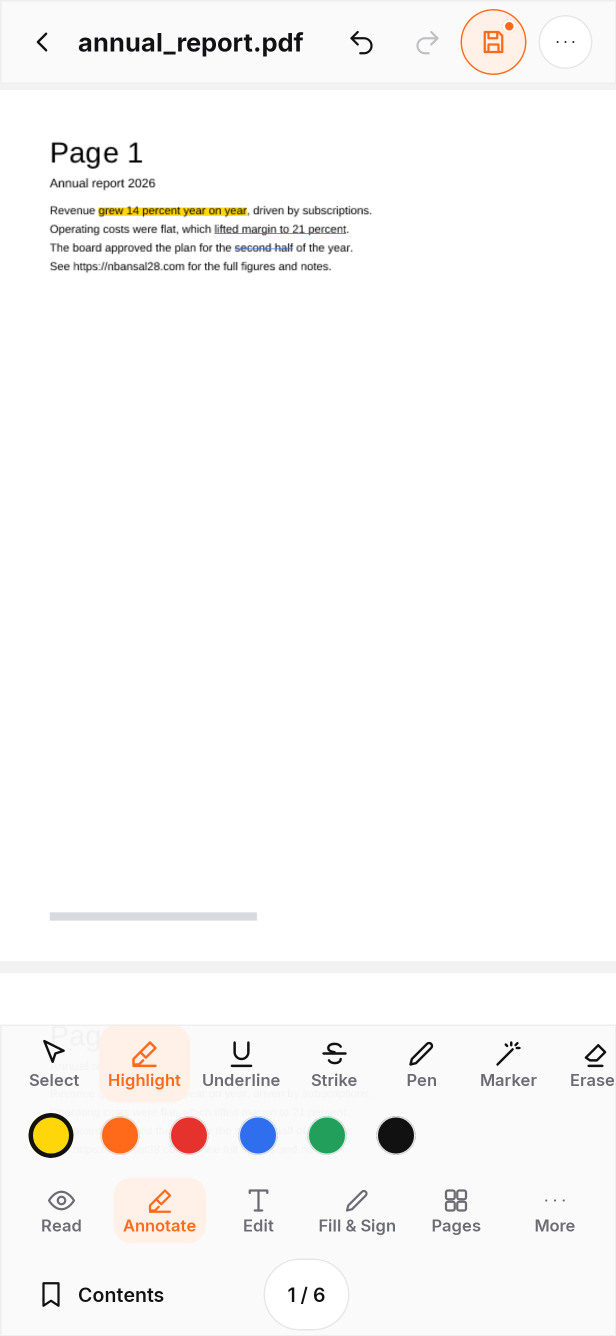
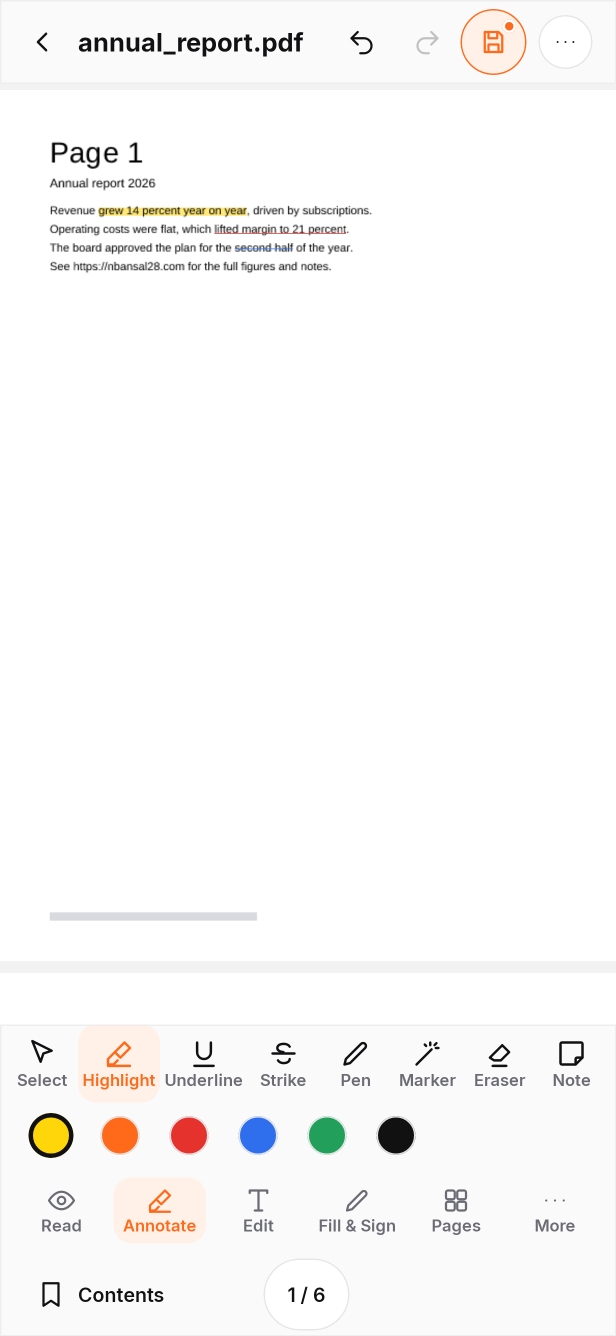
Annotate: highlight opacity, screenshots (light+dark), roadmap progress
Claude-Session: https://claude.ai/code/session_01QtjDEfUSeiytvFedJK5fax

diff --git a/app/src/main/java/com/namanbansal/forge/tools/pdf/AnnotateController.kt b/app/src/main/java/com/namanbansal/forge/tools/pdf/AnnotateController.kt
@@ -136,7 +136,7 @@ class AnnotateController(
                 text = null
                 textJob?.cancel()
                 textJob = scope.launch { text = textOf(hit.page); last?.let { updateQuads(it.x, it.y) } }
-                live.type = textType(t); live.color = colorOf(t); live.opacity = 1f; live.quads = emptyList()
+                live.type = textType(t); live.color = colorOf(t); live.opacity = textOpacity(t); live.quads = emptyList()
             }
             t == AnnotTool.ERASER -> { erased = LinkedHashSet(); live.erasing = emptySet() }
         }
@@ -147,6 +147,8 @@ class AnnotateController(
         val base = AnnotPalette.thicknesses[(_thickness.value[t] ?: 1).coerceIn(0, 2)]
         return if (t == AnnotTool.HIGHLIGHTER) base * AnnotPalette.HIGHLIGHTER_FACTOR else base
     }
+
+    private fun textOpacity(t: AnnotTool) = if (t == AnnotTool.HIGHLIGHT) AnnotPalette.HIGHLIGHT_OPACITY else 1f
 
     private fun textType(t: AnnotTool) = when (t) { AnnotTool.HIGHLIGHT -> AnnotType.HIGHLIGHT; AnnotTool.UNDERLINE -> AnnotType.UNDERLINE; else -> AnnotType.STRIKEOUT }
 
@@ -191,7 +193,7 @@ class AnnotateController(
                 scope.launch {
                     job?.join()
                     val q = text?.let { TextSnap.quadsBetween(it, s.x, s.y, end.x, end.y) }
-                    if (q != null && q.isNotEmpty()) session.add(Annot(session.newId(), s.page, textType(t), colorOf(t), quads = q))
+                    if (q != null && q.isNotEmpty()) session.add(Annot(session.newId(), s.page, textType(t), colorOf(t), textOpacity(t), quads = q))
                     live.clear()
                 }
             }

diff --git a/app/src/test/java/com/namanbansal/forge/viewer/AnnotateControllerTest.kt b/app/src/test/java/com/namanbansal/forge/viewer/AnnotateControllerTest.kt
@@ -53,7 +53,7 @@ class AnnotateControllerTest {
         val c = controller(); c.selectTool(AnnotTool.HIGHLIGHT)
         c.onStart(hit(0.1f + 6.5f * 0.03f, 0.11f)); c.onMove(0.1f + 8.5f * 0.03f, 0.11f); c.onEnd()
         val a = c.session.current.single()
-        assertEquals(AnnotType.HIGHLIGHT, a.type); assertEquals(AnnotPalette.YELLOW, a.color)
+        assertEquals(AnnotType.HIGHLIGHT, a.type); assertEquals(AnnotPalette.YELLOW, a.color); assertEquals(AnnotPalette.HIGHLIGHT_OPACITY, a.opacity, 0f)
         assertEquals(0.1f + 6 * 0.03f, a.quads.single().left, 1e-4f); assertEquals(0.1f + 9 * 0.03f, a.quads.single().right, 1e-4f)
         c.selectTool(AnnotTool.UNDERLINE)
         assertEquals(AnnotPalette.RED, c.colorOf(AnnotTool.UNDERLINE))

diff --git a/app/src/test/java/com/namanbansal/forge/screenshots/AnnotateScreenshotTest.kt b/app/src/test/java/com/namanbansal/forge/screenshots/AnnotateScreenshotTest.kt
@@ -88,7 +88,7 @@ class AnnotateScreenshotTest {
 
     private fun annotated(vm: ViewerViewModel) {
         val s = vm.annotate.session
-        s.add(Annot("h1", 0, AnnotType.HIGHLIGHT, AnnotPalette.YELLOW, quads = quadsOf(vm, "grew 14 percent year on year")))
+        s.add(Annot("h1", 0, AnnotType.HIGHLIGHT, AnnotPalette.YELLOW, AnnotPalette.HIGHLIGHT_OPACITY, quads = quadsOf(vm, "grew 14 percent year on year")))
         s.add(Annot("u1", 0, AnnotType.UNDERLINE, AnnotPalette.RED, quads = quadsOf(vm, "lifted margin to 21 percent")))
         s.add(Annot("s1", 0, AnnotType.STRIKEOUT, AnnotPalette.BLUE, quads = quadsOf(vm, "second half")))
     }

diff --git a/app/src/main/java/com/namanbansal/forge/core/pdf/annot/Annot.kt b/app/src/main/java/com/namanbansal/forge/core/pdf/annot/Annot.kt
@@ -46,6 +46,8 @@ object AnnotPalette {
     val colors = listOf(YELLOW, EMBER, RED, BLUE, GREEN, BLACK)
     val names = mapOf(YELLOW to "Yellow", EMBER to "Ember", RED to "Red", BLUE to "Blue", GREEN to "Green", BLACK to "Black")
 
+    /** Text highlights are drawn with Multiply at this opacity: text stays readable even in a viewer without blend-mode support. */
+    const val HIGHLIGHT_OPACITY = 0.55f
     const val HIGHLIGHTER_OPACITY = 0.4f
     /** Pen thickness presets as a fraction of page width (about 1.8 / 3.6 / 7 pt on A4). */
     val thicknesses = listOf(0.003f, 0.006f, 0.012f)

diff --git a/docs/ROADMAP.md b/docs/ROADMAP.md
@@ -28,11 +28,11 @@ Released: v0.1.121 — foundation, branding, Rotate, Merge, Split, Page manager,
 ## Round 2 — Edit inside the viewer
 - [ ] Annotate: highlight, underline, strike, pen, notes (P17) — Round 2A checklist:
   - [x] core model + PDF round-trip (`core/pdf/annot/*`), session undo/redo, hit-test, smoothing, text snapping + tests
-  - [x] AnnotSaver (DocumentWriter) + PendingStore + tests; [ ] wire into viewer VM (render-copy strip, reload in place)
-  - [ ] ViewerMode interface + mode bar (Read · Annotate · Edit · Fill & Sign · Pages · More), Coming-soon sheet
-  - [ ] Annotate overlay + gestures (draw, text-snap drag, eraser, note, select) + toolbar/palette/colour picker
-  - [ ] Selected-annotation bar, note editor sheet, unsaved-changes dialog, Save dot + snackbar
-  - [ ] P17 Available (opens viewer in Annotate), Compose tests, screenshots (light+dark) incl. saved-page render
+  - [x] save path: AnnotSaver (DocumentWriter), PendingStore, render-copy strip, reload in place + tests
+  - [x] ViewerMode interface + mode bar (Read · Annotate · Edit · Fill & Sign · Pages · More), Coming-soon sheet
+  - [x] Annotate overlay + gestures (draw, text-snap drag, eraser, note, select) + toolbar/palette/colour picker
+  - [x] Selected-annotation bar, note editor sheet, unsaved-changes dialog, Save dot + snackbar
+  - [x] P17 Available (opens viewer in Annotate), Compose tests, screenshots (light+dark) incl. saved-page render
   - [ ] Final: full gradle check + CI green
 - [ ] Edit: add text, image, shapes (P16), whiteout (P18), true redaction (P19)
 - [ ] Fill & Sign: fill forms (P25), sign with a saved signature library (P27)
